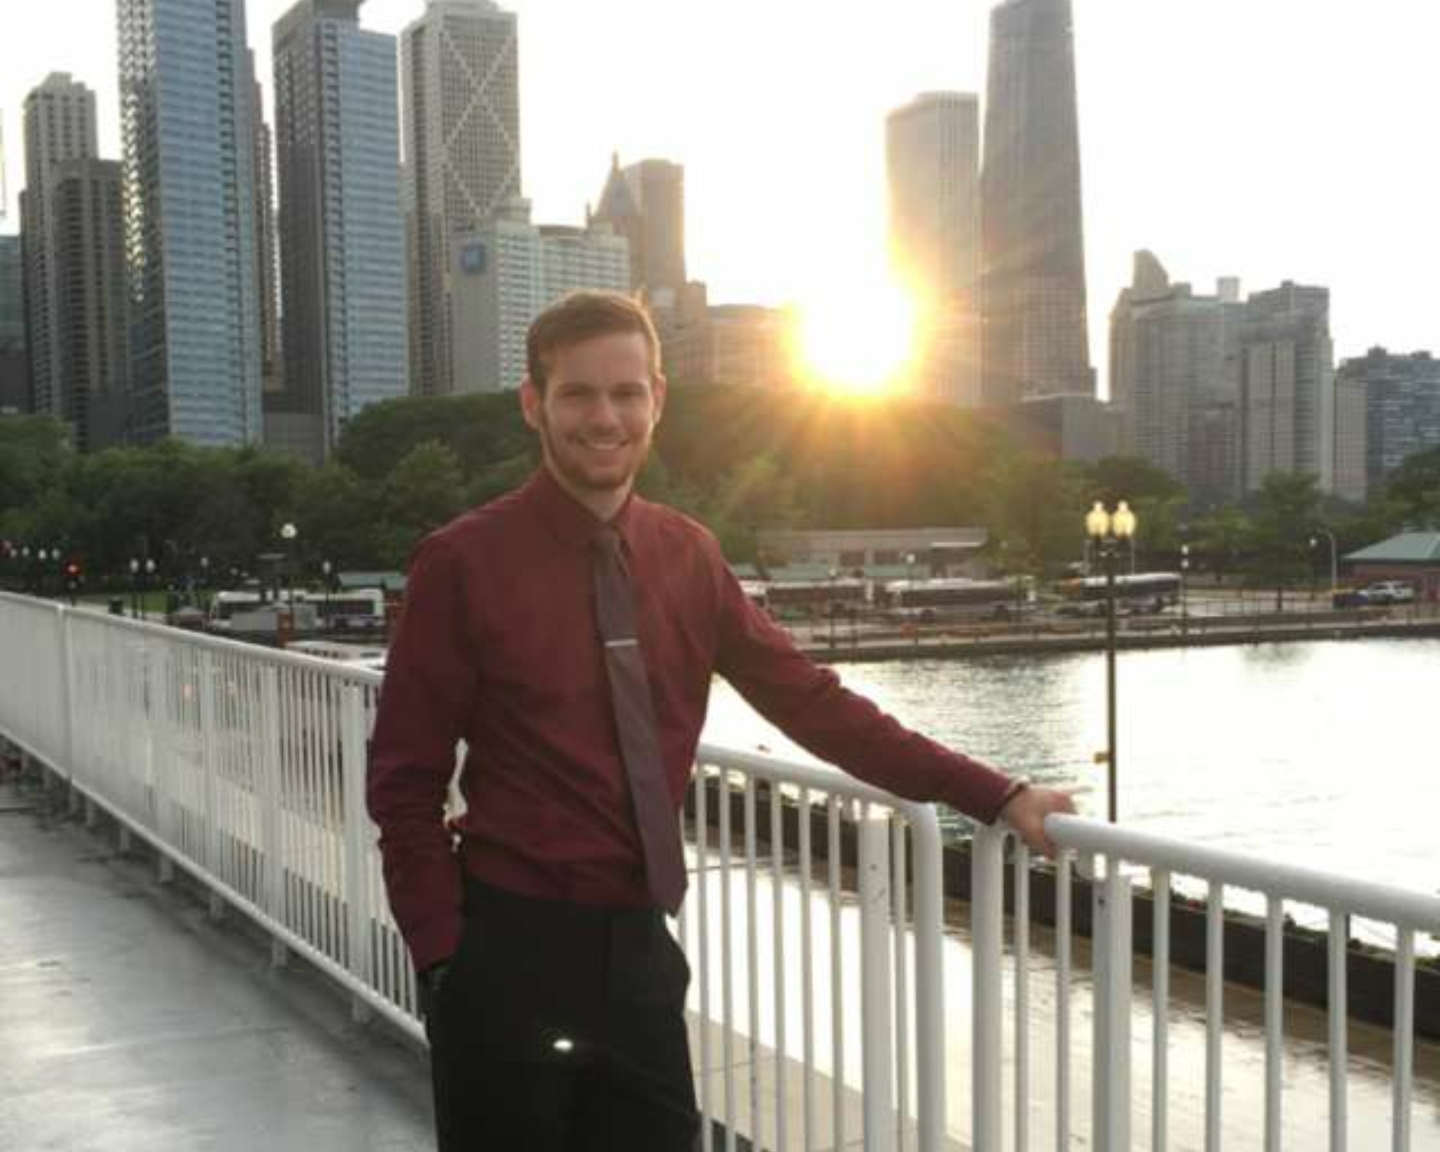
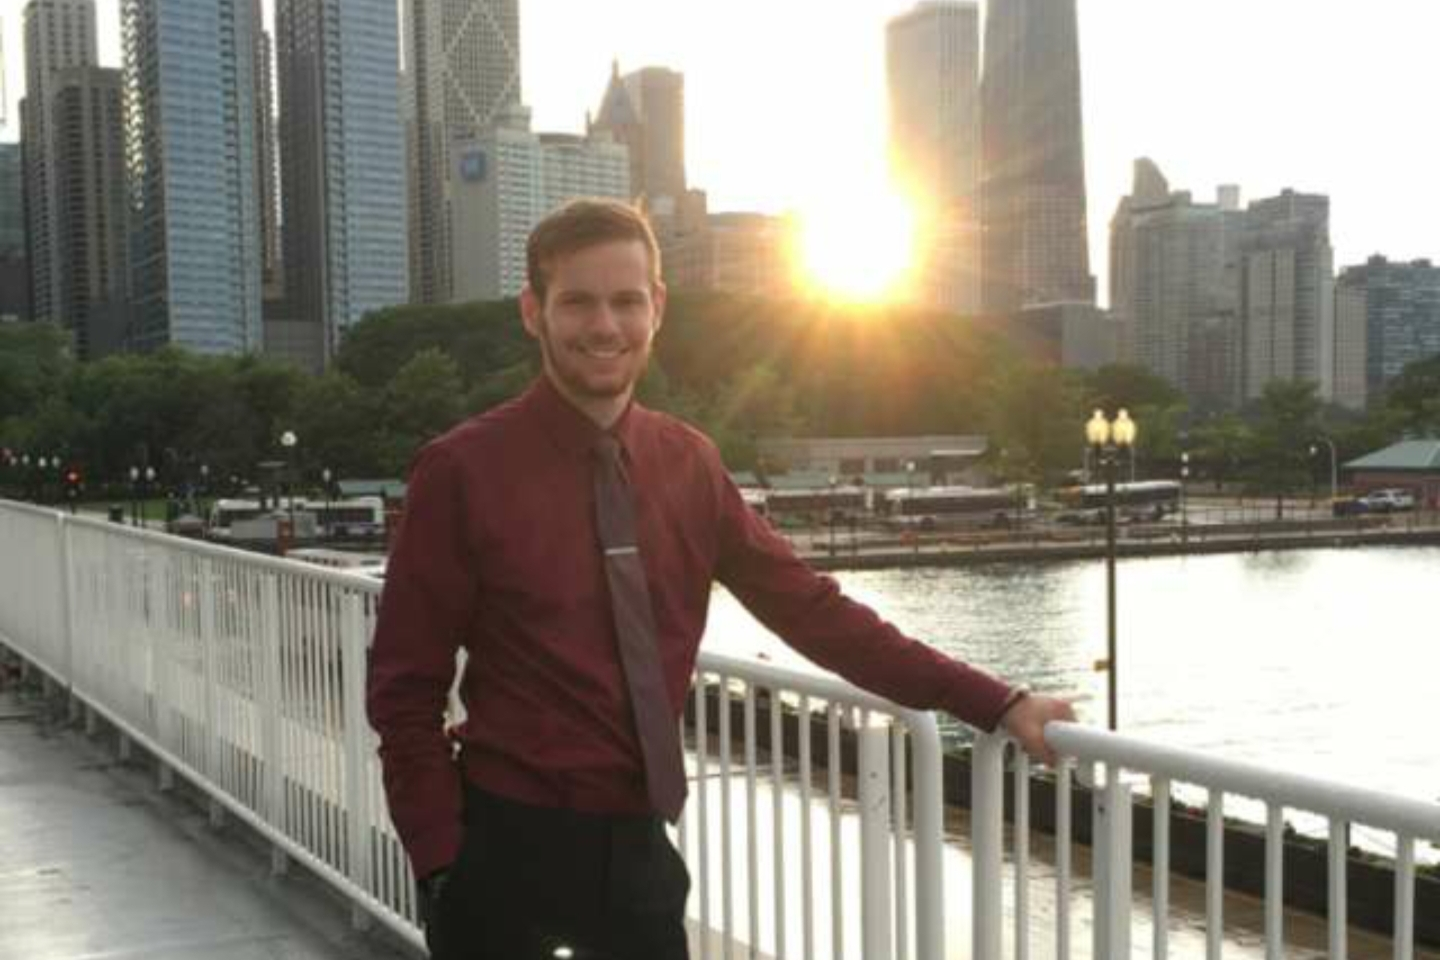
Updated picture dimensions to fit the cards/carousel better

diff --git a/src/constants/Constants.ts b/src/constants/Constants.ts
@@ -1,6 +1,7 @@
 import maroon from "../assets/Maroon.png"
 import lab from "../assets/lab.png"
 import chi from "../assets/CHI.png"
+import e7calc from "../assets/e7Calc.png"
 
 export class Constants{
   public static TITLE:string="Welcome to Brock Bena's Website"
@@ -21,11 +22,8 @@ export class Constants{
   ]
   public static PORTFOLIO_IMGS:{src:string,alt:string}[]=[
     {
-      src:maroon,
-      alt:"MarronPark"
-    },{
-      src:lab,
-      alt:"InTheLab"
+      src:e7calc,
+      alt:"Epic 7 Calculator"
     }
   ]
   public static PURPOSE_LIST:string[]=[
